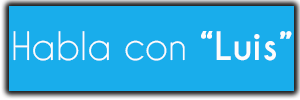
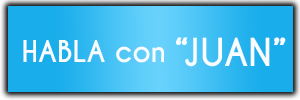
Changes resources for the new name

diff --git a/app/components/core/views/home.html b/app/components/core/views/home.html
@@ -10,7 +10,7 @@
             <img src="Images/logoInge.png">
         </div>
         <div class="saludoContainer">
-            <h1>¡Hola! Yo soy el Inge Luis y te echaré la mano para que sepas todo lo que necesitas para mejorar tu casa.</h1>
+            <h1>¡Hola! Yo soy el Inge Juan y te echaré la mano para que sepas todo lo que necesitas para mejorar tu casa.</h1>
         </div>
     </div>
     <div>
